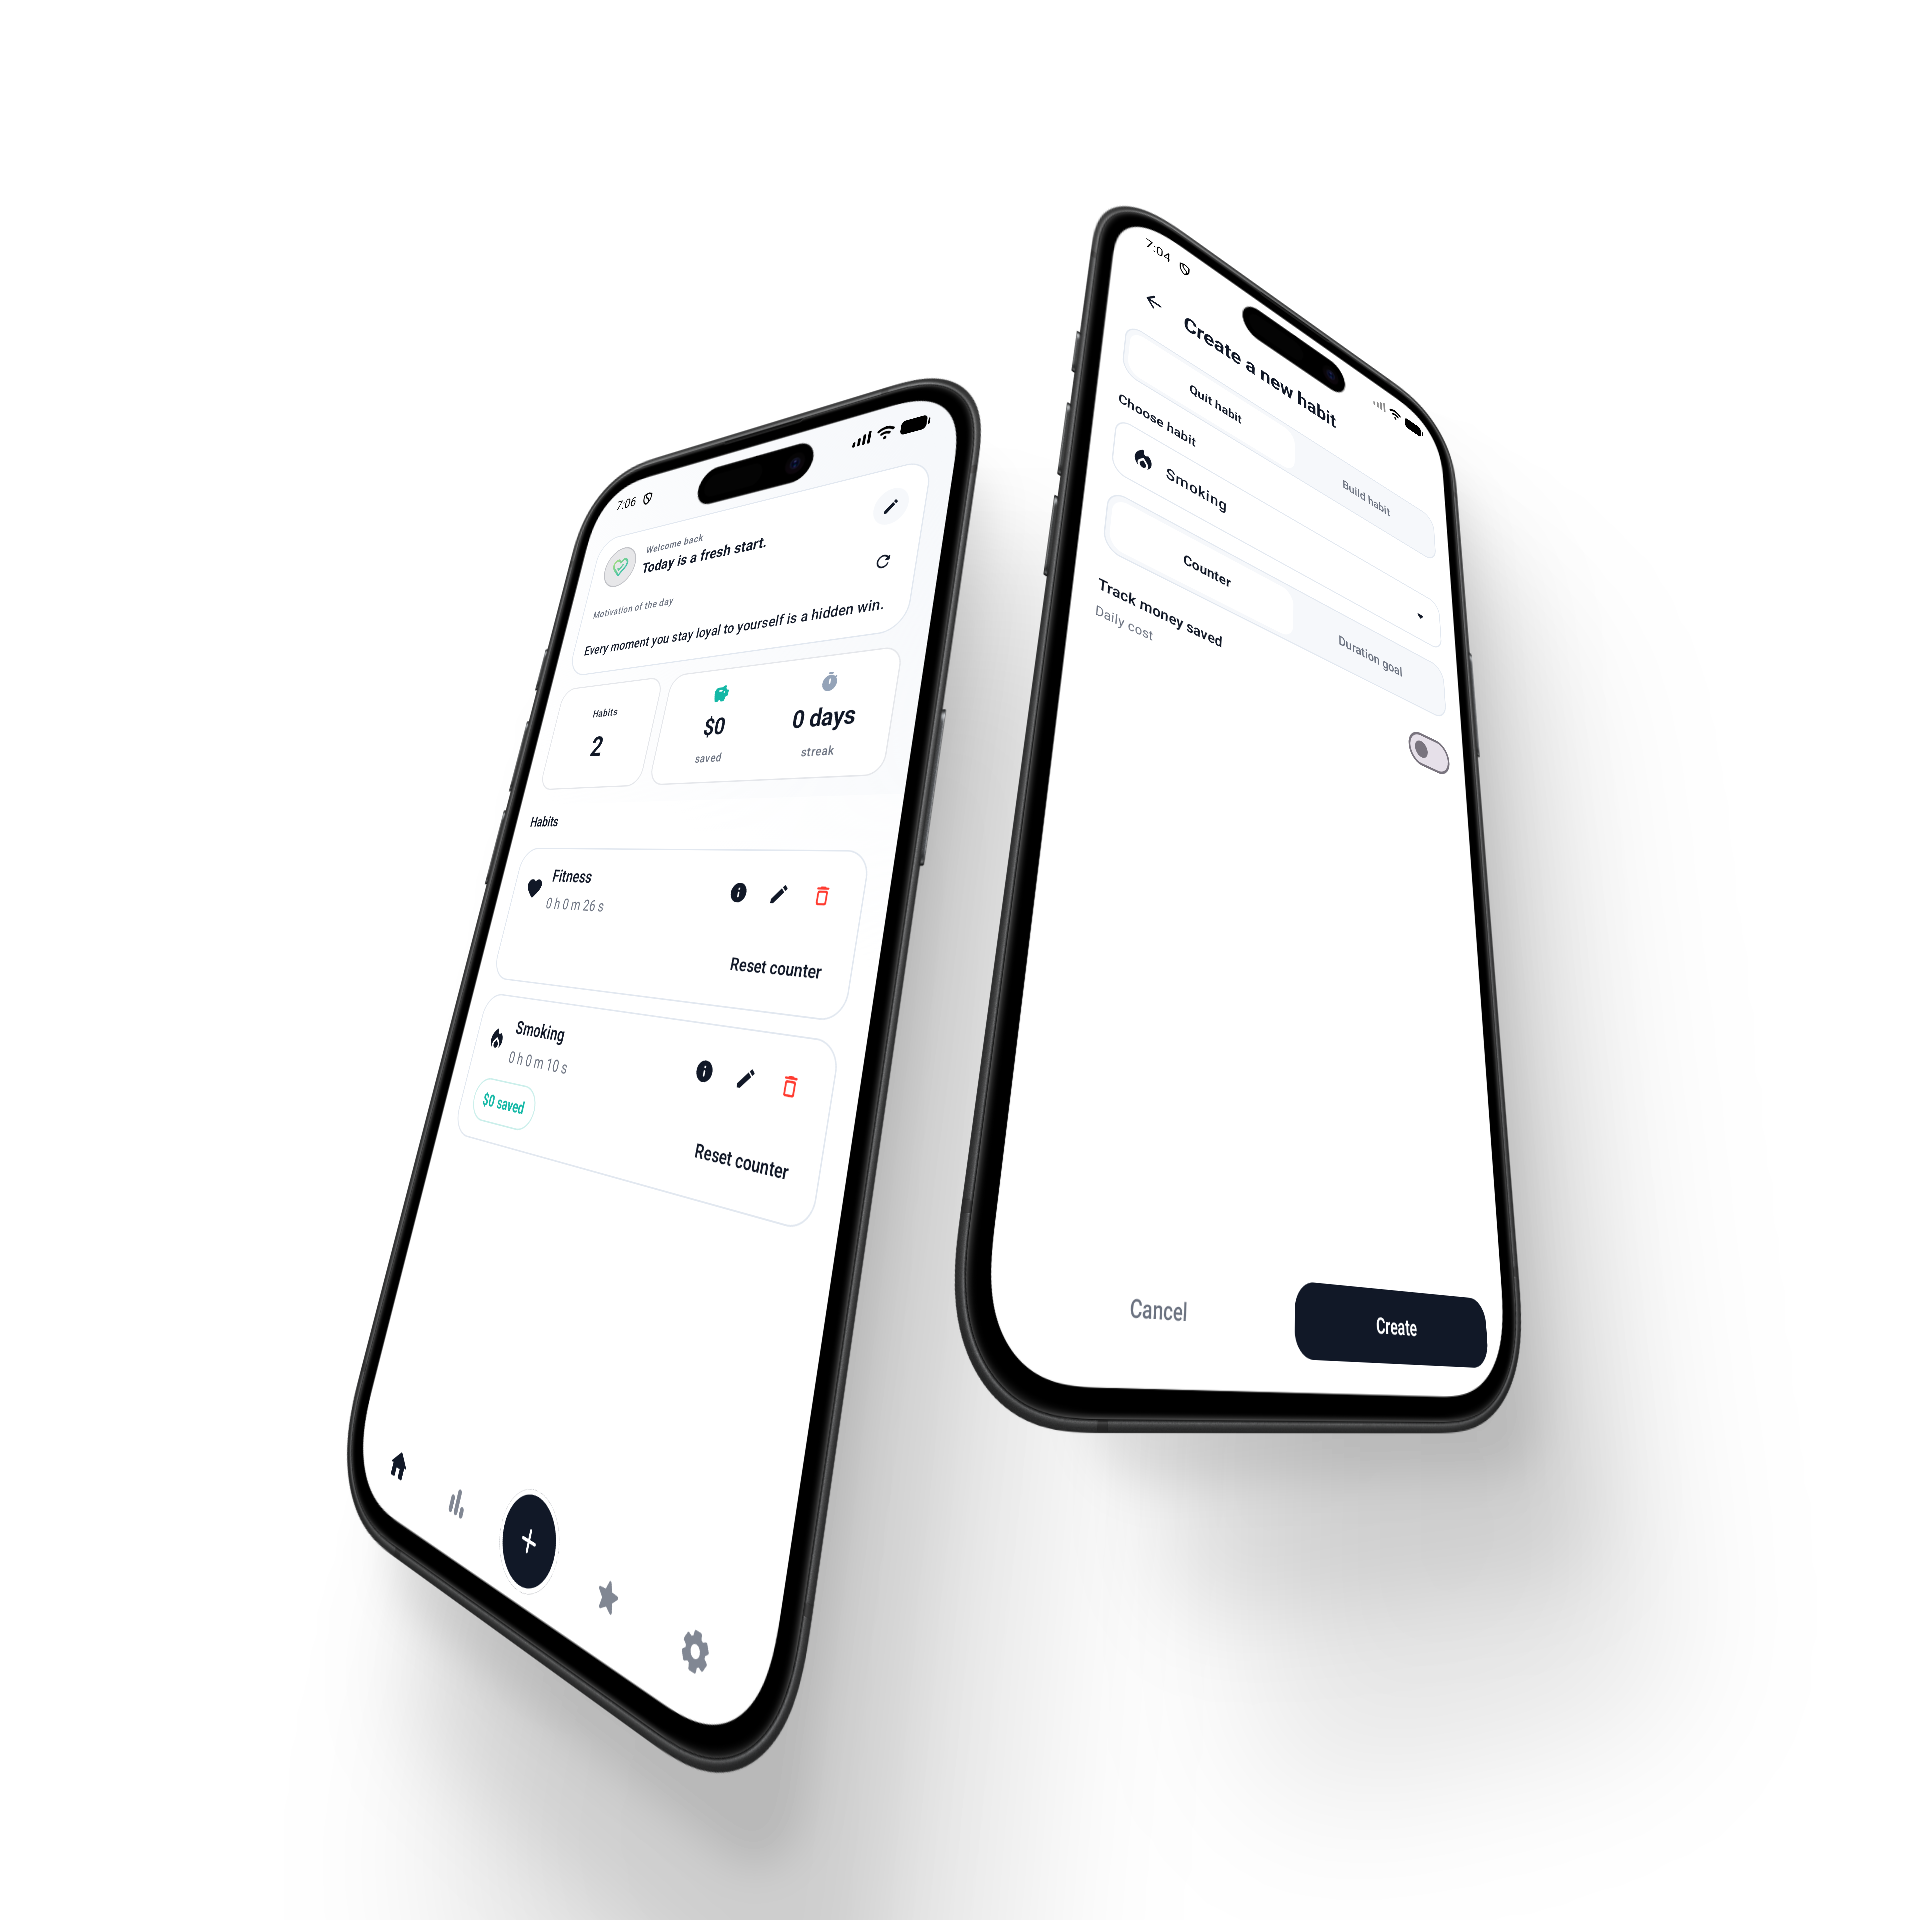
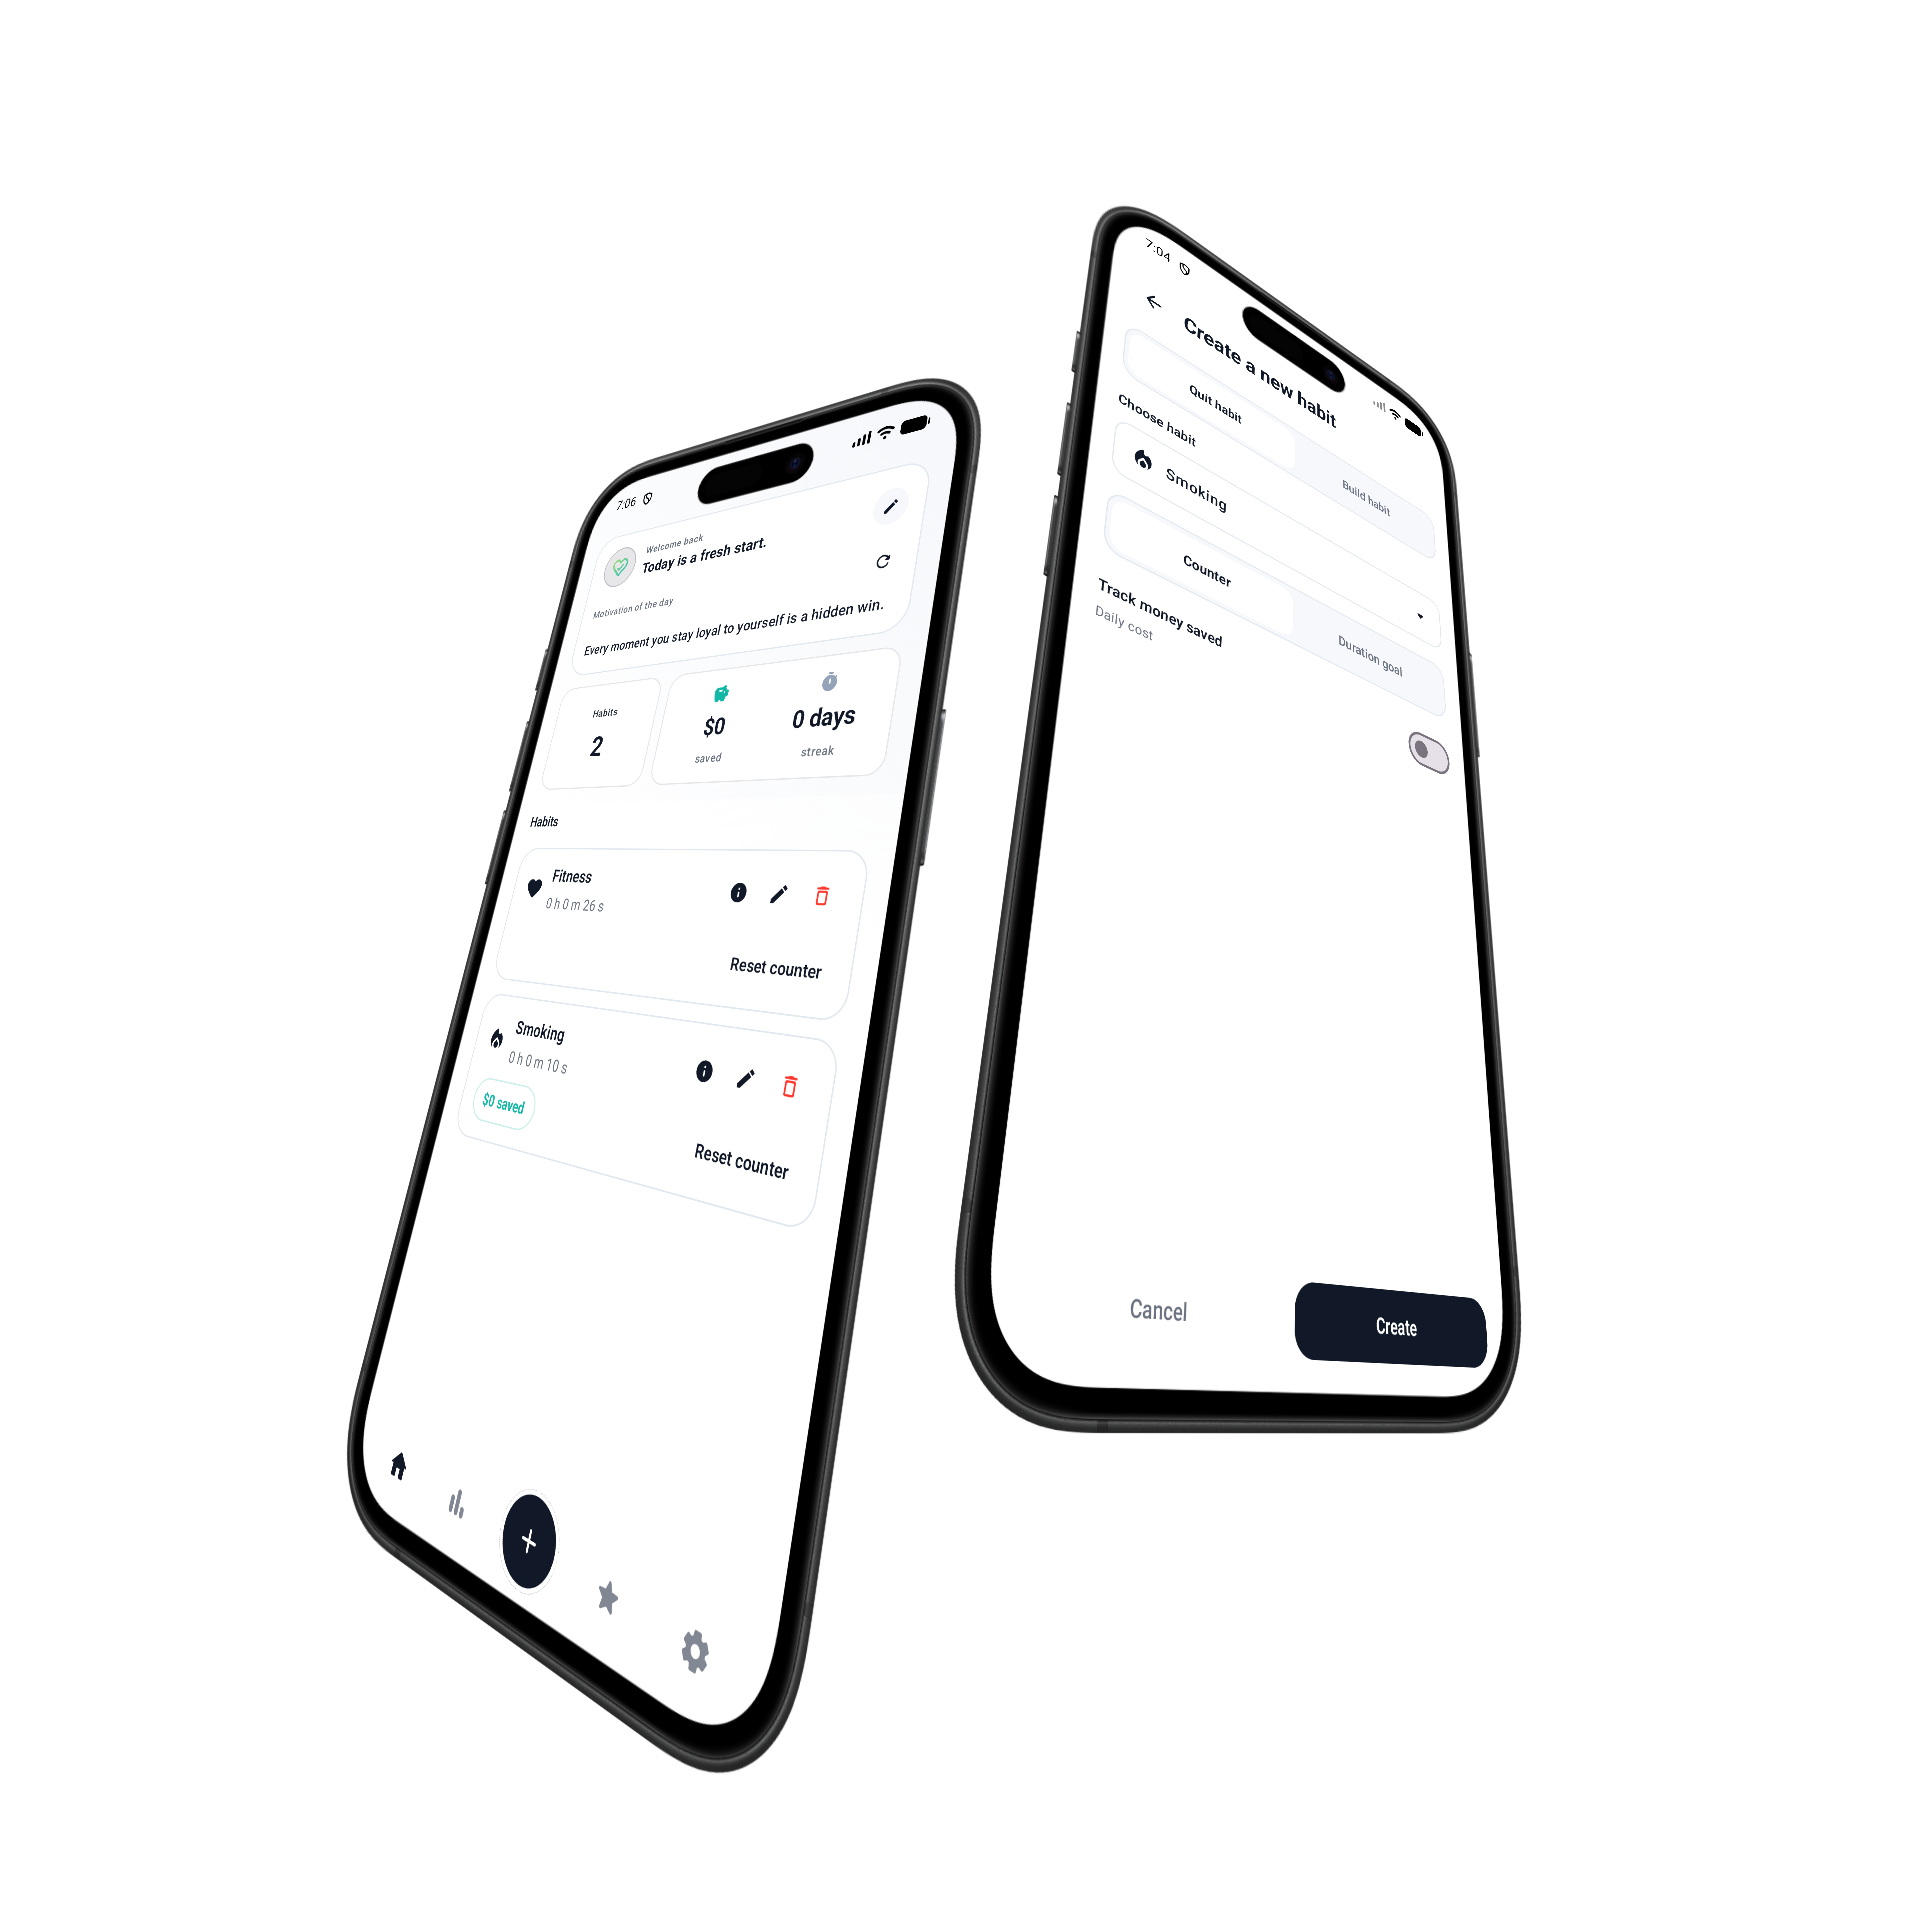
Add decorative hero background and styles for FixSend
Add a new background asset (fixsend-hero-bg.png) and apply a .fixsend-app-hero class to the hero section in fixsend.html and fixsend-tr.html. Remove the explicit product-photo hero <section> (the inline hero image) from both pages and rely on CSS for the decorative hero. Update styles.css with .fixsend-app-hero rules that add ::before and ::after pseudo-elements (background image, radial/linear gradients, opacity, blur and responsive inset/size adjustments) and tweak hero padding and layout across breakpoints.

Changed region(s): [[0.1875, 0.25, 0.5625, 1.0], [0.5625, 0.2812, 0.8438, 0.875]]

diff --git a/styles.css b/styles.css
@@ -135,12 +135,12 @@ main {
 }
 
 .hero {
-  min-height: 74vh;
+  min-height: calc(100vh - 104px);
   display: grid;
-  grid-template-columns: minmax(0, 0.82fr) minmax(470px, 1.18fr);
-  gap: 24px;
+  grid-template-columns: minmax(0, 0.84fr) minmax(440px, 1.16fr);
+  gap: 18px;
   align-items: center;
-  padding: 82px 0 74px;
+  padding: 34px 0 42px;
 }
 
 .hero-copy {
@@ -189,8 +189,8 @@ main {
 .home-hero-stage {
   position: relative;
   justify-self: end;
-  width: min(132%, 910px);
-  margin-right: -206px;
+  width: min(118%, 800px);
+  margin-right: -112px;
   animation: heroFadeIn 900ms ease 120ms both;
 }
 
@@ -198,7 +198,9 @@ main {
   display: block;
   width: 100%;
   height: auto;
-  filter: drop-shadow(0 36px 72px rgba(35, 30, 20, 0.20));
+  max-height: calc(100vh - 158px);
+  object-fit: contain;
+  filter: drop-shadow(0 30px 62px rgba(35, 30, 20, 0.18));
   animation: heroFloat 6.5s ease-in-out infinite;
 }
 
@@ -230,17 +232,21 @@ main {
 
 .hero-qr-card {
   position: absolute;
-  right: 34px;
-  bottom: 34px;
+  right: 118px;
+  bottom: 26px;
   display: grid;
-  justify-items: center;
-  gap: 8px;
-  width: 136px;
-  padding: 12px;
+  grid-template-columns: 58px 1fr;
+  align-items: center;
+  gap: 12px;
+  width: 214px;
+  min-height: 78px;
+  padding: 10px 14px 10px 10px;
   border: 1px solid rgba(15, 23, 42, 0.08);
-  border-radius: 24px;
-  background: rgba(255, 252, 246, 0.9);
-  box-shadow: 0 20px 46px rgba(35, 30, 20, 0.14);
+  border-radius: 22px;
+  background:
+    radial-gradient(circle at 15% 15%, rgba(92, 108, 255, 0.12), transparent 5rem),
+    rgba(255, 252, 246, 0.86);
+  box-shadow: 0 18px 44px rgba(35, 30, 20, 0.12);
   color: var(--text);
   text-decoration: none;
   backdrop-filter: blur(18px);
@@ -249,15 +255,29 @@ main {
 
 .hero-qr-card img {
   display: block;
-  width: 98px;
-  height: 98px;
+  width: 58px;
+  height: 58px;
   border-radius: 14px;
+  background: #ffffff;
+  box-shadow: inset 0 0 0 1px rgba(17, 19, 26, 0.05);
 }
 
 .hero-qr-card span {
-  font-size: 0.74rem;
+  font-size: 0.78rem;
   font-weight: 900;
-  text-align: center;
+  text-align: left;
+  line-height: 1.2;
+}
+
+.hero-qr-card span::before {
+  content: "Google Play";
+  display: block;
+  margin-bottom: 3px;
+  color: var(--muted);
+  font-size: 0.65rem;
+  font-weight: 850;
+  letter-spacing: 0.08em;
+  text-transform: uppercase;
 }
 
 @keyframes heroFadeUp {
@@ -581,6 +601,35 @@ footer {
   gap: 42px;
   align-items: center;
   padding: 74px 0 46px;
+}
+
+.fixsend-app-hero {
+  position: relative;
+  min-height: 68vh;
+  padding: 98px 0 78px;
+  overflow: hidden;
+}
+
+.fixsend-app-hero::before {
+  content: "";
+  position: absolute;
+  inset: -18% -18% -12% 24%;
+  z-index: -1;
+  background: url("fixsend-hero-bg.png?v=1") center / contain no-repeat;
+  opacity: 0.24;
+  filter: blur(0.2px) saturate(0.95);
+  pointer-events: none;
+}
+
+.fixsend-app-hero::after {
+  content: "";
+  position: absolute;
+  inset: 0;
+  z-index: -1;
+  background:
+    radial-gradient(circle at 78% 24%, rgba(92, 108, 255, 0.12), transparent 28rem),
+    linear-gradient(90deg, rgba(246, 242, 234, 0.94) 0%, rgba(246, 242, 234, 0.72) 48%, rgba(246, 242, 234, 0.48) 100%);
+  pointer-events: none;
 }
 
 .hero-phone-card {
@@ -920,24 +969,32 @@ footer {
 
   .hero {
     grid-template-columns: 1fr;
-    gap: 34px;
+    gap: 24px;
+    min-height: auto;
+    padding: 44px 0 48px;
     overflow: hidden;
   }
 
   .home-hero-stage {
     justify-self: center;
-    width: min(112%, 780px);
-    margin: 6px -6% 0;
+    width: min(104%, 680px);
+    margin: -4px -2% 0;
   }
 
   .hero-qr-card {
-    right: 22px;
+    right: 36px;
     bottom: 18px;
   }
 
   .app-hero {
     grid-template-columns: 1fr;
     overflow: hidden;
+  }
+
+  .fixsend-app-hero::before {
+    inset: 18% -20% -10% -8%;
+    opacity: 0.16;
+    background-size: 120%;
   }
 
   .hero-phone-card {
@@ -1016,8 +1073,8 @@ footer {
   }
 
   .hero {
-    min-height: 66vh;
-    padding-top: 70px;
+    min-height: auto;
+    padding-top: 34px;
   }
 
   h1 {
@@ -1048,6 +1105,17 @@ footer {
     padding: 64px 0 42px;
   }
 
+  .fixsend-app-hero {
+    min-height: auto;
+    padding: 72px 0 52px;
+  }
+
+  .fixsend-app-hero::before {
+    inset: 26% -28% -8% -24%;
+    opacity: 0.13;
+    background-size: 145%;
+  }
+
   .hero-phone-card {
     width: 100%;
     max-width: 168px;
@@ -1056,23 +1124,23 @@ footer {
   }
 
   .home-hero-stage {
-    width: 116%;
-    margin-left: -8%;
-    margin-right: -8%;
+    width: 108%;
+    margin-left: -4%;
+    margin-right: -4%;
   }
 
   .hero-qr-card {
     position: relative;
     right: auto;
     bottom: auto;
-    width: 100%;
-    max-width: 220px;
-    margin: -18px auto 0;
+    width: min(100%, 260px);
+    max-width: 260px;
+    margin: -8px auto 0;
   }
 
   .hero-qr-card img {
-    width: 112px;
-    height: 112px;
+    width: 58px;
+    height: 58px;
   }
 
   .hero-badges span {

diff --git a/fixsend-tr.html b/fixsend-tr.html
@@ -8,7 +8,7 @@
   <link rel="icon" type="image/png" href="./favicon.png?v=2" />
   <link rel="shortcut icon" type="image/png" href="./favicon.png?v=2" />
   <link rel="apple-touch-icon" href="./favicon.png?v=2" />
-  <link rel="stylesheet" href="./styles.css?v=14" />
+  <link rel="stylesheet" href="./styles.css?v=15" />
 </head>
 <body>
   <header class="site-header">
@@ -25,7 +25,7 @@
   </header>
 
   <main>
-    <section class="app-hero">
+    <section class="app-hero fixsend-app-hero">
       <div>
         <p class="eyebrow">Yabato Co. ürünü FixSend</p>
         <h1>CV'ni göndermeden önce kontrol et.</h1>
@@ -45,10 +45,6 @@
         <h2>FixSend</h2>
         <p>CV Hazırlık</p>
       </div>
-    </section>
-
-    <section class="feature-banner product-photo">
-      <img src="fixsend-hero.png?v=2" alt="FixSend ürün önizlemesi" />
     </section>
 
     <section class="section">

diff --git a/fixsend.html b/fixsend.html
@@ -8,7 +8,7 @@
   <link rel="icon" type="image/png" href="./favicon.png?v=2" />
   <link rel="shortcut icon" type="image/png" href="./favicon.png?v=2" />
   <link rel="apple-touch-icon" href="./favicon.png?v=2" />
-  <link rel="stylesheet" href="./styles.css?v=14" />
+  <link rel="stylesheet" href="./styles.css?v=15" />
 </head>
 <body>
   <header class="site-header">
@@ -25,7 +25,7 @@
   </header>
 
   <main>
-    <section class="app-hero">
+    <section class="app-hero fixsend-app-hero">
       <div>
         <p class="eyebrow">FixSend by Yabato Co.</p>
         <h1>Check your CV before you send it.</h1>
@@ -45,10 +45,6 @@
         <h2>FixSend</h2>
         <p>CV Readiness</p>
       </div>
-    </section>
-
-    <section class="feature-banner product-photo">
-      <img src="fixsend-hero.png?v=2" alt="FixSend product preview" />
     </section>
 
     <section class="section">

diff --git a/index-tr.html b/index-tr.html
@@ -8,7 +8,7 @@
   <link rel="icon" type="image/png" href="./favicon.png?v=2" />
   <link rel="shortcut icon" type="image/png" href="./favicon.png?v=2" />
   <link rel="apple-touch-icon" href="./favicon.png?v=2" />
-  <link rel="stylesheet" href="./styles.css?v=14" />
+  <link rel="stylesheet" href="./styles.css?v=15" />
 </head>
 <body>
   <header class="site-header">
@@ -46,7 +46,7 @@
       <div class="home-hero-stage">
         <div class="hero-glow hero-glow-one"></div>
         <div class="hero-glow hero-glow-two"></div>
-        <img class="home-hero-image" src="quira-hero.png?v=2" alt="Quira uygulama ekranları önizlemesi" />
+        <img class="home-hero-image" src="quira-hero.png?v=3" alt="Quira uygulama ekranları önizlemesi" />
         <a class="hero-qr-card" href="https://play.google.com/store/apps/details?id=co.yabato.quira" target="_blank" rel="noopener" aria-label="Quira'yı Google Play'den indir">
           <img src="quira-google-play-qr.png" alt="Quira Google Play QR kodu" />
           <span>İndirmek için okut</span>

diff --git a/index.html b/index.html
@@ -8,7 +8,7 @@
   <link rel="icon" type="image/png" href="./favicon.png?v=2" />
   <link rel="shortcut icon" type="image/png" href="./favicon.png?v=2" />
   <link rel="apple-touch-icon" href="./favicon.png?v=2" />
-  <link rel="stylesheet" href="./styles.css?v=14" />
+  <link rel="stylesheet" href="./styles.css?v=15" />
 </head>
 <body>
   <header class="site-header">
@@ -46,7 +46,7 @@
       <div class="home-hero-stage">
         <div class="hero-glow hero-glow-one"></div>
         <div class="hero-glow hero-glow-two"></div>
-        <img class="home-hero-image" src="quira-hero.png?v=2" alt="Quira app screens preview" />
+        <img class="home-hero-image" src="quira-hero.png?v=3" alt="Quira app screens preview" />
         <a class="hero-qr-card" href="https://play.google.com/store/apps/details?id=co.yabato.quira" target="_blank" rel="noopener" aria-label="Download Quira from Google Play">
           <img src="quira-google-play-qr.png" alt="Quira Google Play QR code" />
           <span>Scan to download</span>

diff --git a/monevia-tr.html b/monevia-tr.html
@@ -8,7 +8,7 @@
   <link rel="icon" type="image/png" href="./favicon.png?v=2" />
   <link rel="shortcut icon" type="image/png" href="./favicon.png?v=2" />
   <link rel="apple-touch-icon" href="./favicon.png?v=2" />
-  <link rel="stylesheet" href="./styles.css?v=14" />
+  <link rel="stylesheet" href="./styles.css?v=15" />
 </head>
 <body>
   <header class="site-header">

diff --git a/monevia.html b/monevia.html
@@ -8,7 +8,7 @@
   <link rel="icon" type="image/png" href="./favicon.png?v=2" />
   <link rel="shortcut icon" type="image/png" href="./favicon.png?v=2" />
   <link rel="apple-touch-icon" href="./favicon.png?v=2" />
-  <link rel="stylesheet" href="./styles.css?v=14" />
+  <link rel="stylesheet" href="./styles.css?v=15" />
 </head>
 <body>
   <header class="site-header">

diff --git a/privacy-monevia.html b/privacy-monevia.html
@@ -8,7 +8,7 @@
   <link rel="icon" type="image/png" href="./favicon.png?v=2" />
   <link rel="shortcut icon" type="image/png" href="./favicon.png?v=2" />
   <link rel="apple-touch-icon" href="./favicon.png?v=2" />
-  <link rel="stylesheet" href="./styles.css?v=14" />
+  <link rel="stylesheet" href="./styles.css?v=15" />
 </head>
 <body>
   <header class="site-header">

diff --git a/privacy-quira.html b/privacy-quira.html
@@ -8,7 +8,7 @@
   <link rel="icon" type="image/png" href="./favicon.png?v=2" />
   <link rel="shortcut icon" type="image/png" href="./favicon.png?v=2" />
   <link rel="apple-touch-icon" href="./favicon.png?v=2" />
-  <link rel="stylesheet" href="./styles.css?v=14" />
+  <link rel="stylesheet" href="./styles.css?v=15" />
 </head>
 <body>
   <header class="site-header">

diff --git a/quira-tr.html b/quira-tr.html
@@ -8,7 +8,7 @@
   <link rel="icon" type="image/png" href="./favicon.png?v=2" />
   <link rel="shortcut icon" type="image/png" href="./favicon.png?v=2" />
   <link rel="apple-touch-icon" href="./favicon.png?v=2" />
-  <link rel="stylesheet" href="./styles.css?v=14" />
+  <link rel="stylesheet" href="./styles.css?v=15" />
 </head>
 <body>
   <header class="site-header">

diff --git a/quira.html b/quira.html
@@ -8,7 +8,7 @@
   <link rel="icon" type="image/png" href="./favicon.png?v=2" />
   <link rel="shortcut icon" type="image/png" href="./favicon.png?v=2" />
   <link rel="apple-touch-icon" href="./favicon.png?v=2" />
-  <link rel="stylesheet" href="./styles.css?v=14" />
+  <link rel="stylesheet" href="./styles.css?v=15" />
 </head>
 <body>
   <header class="site-header">